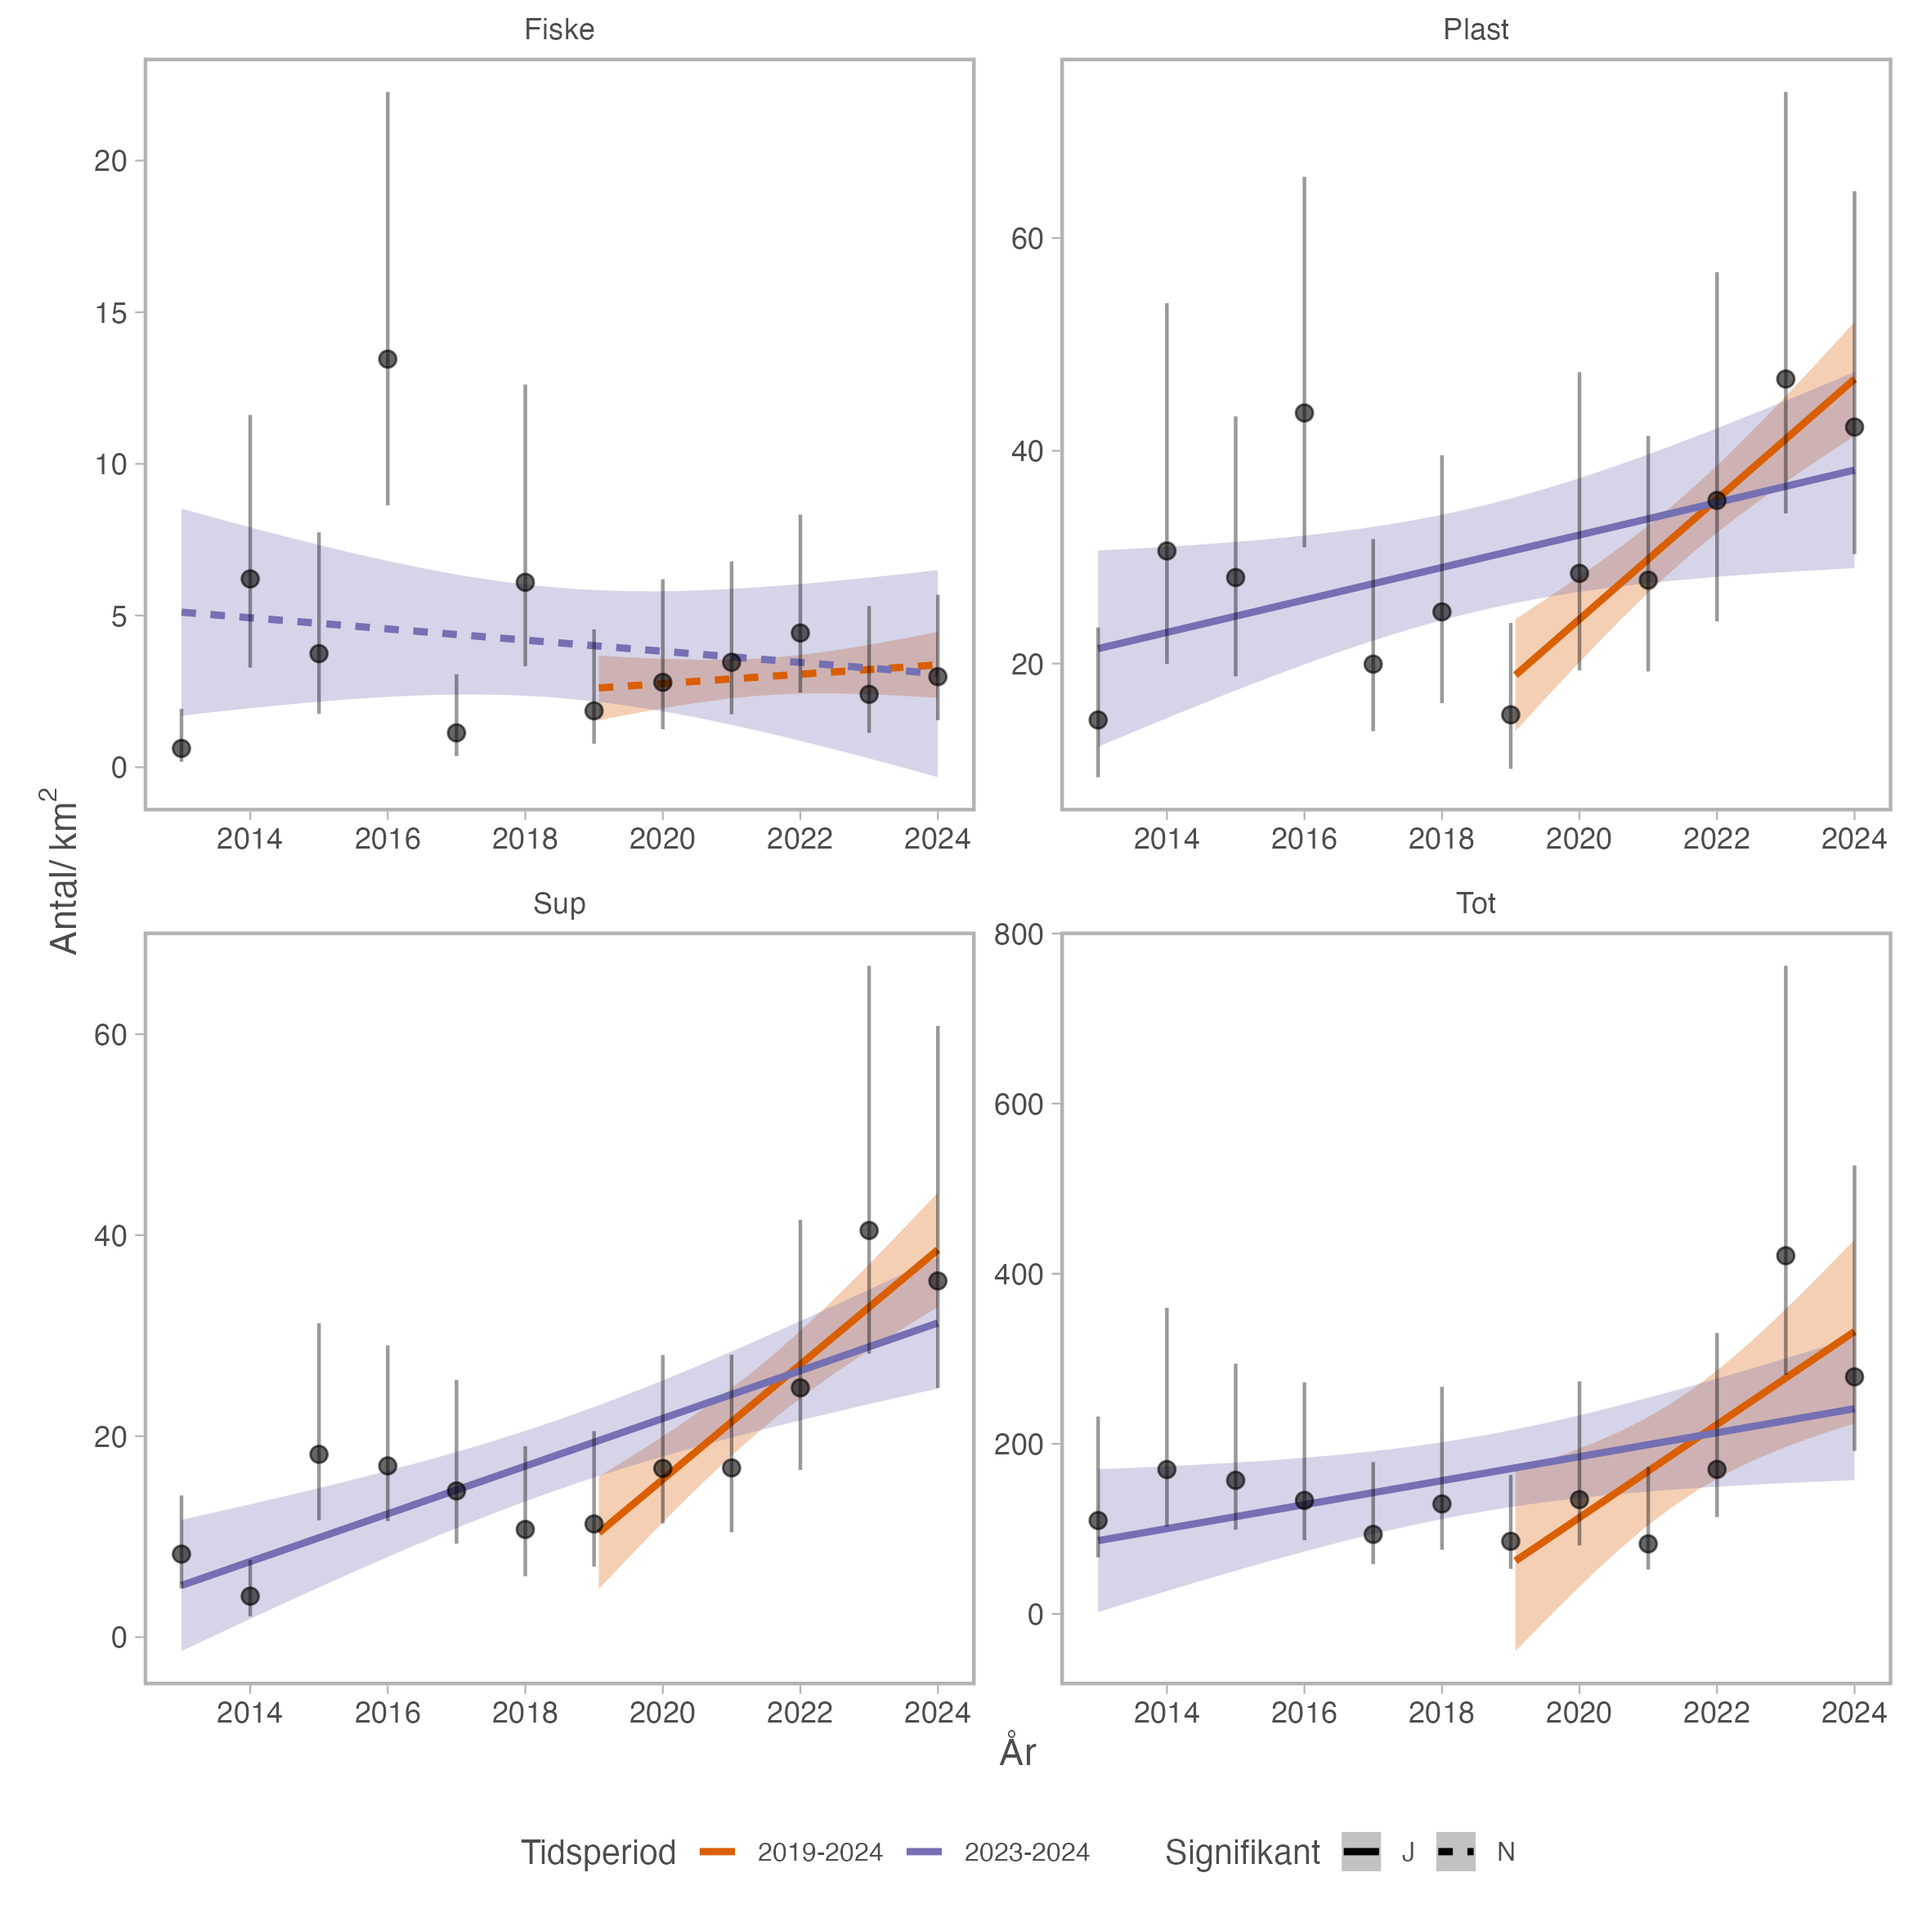
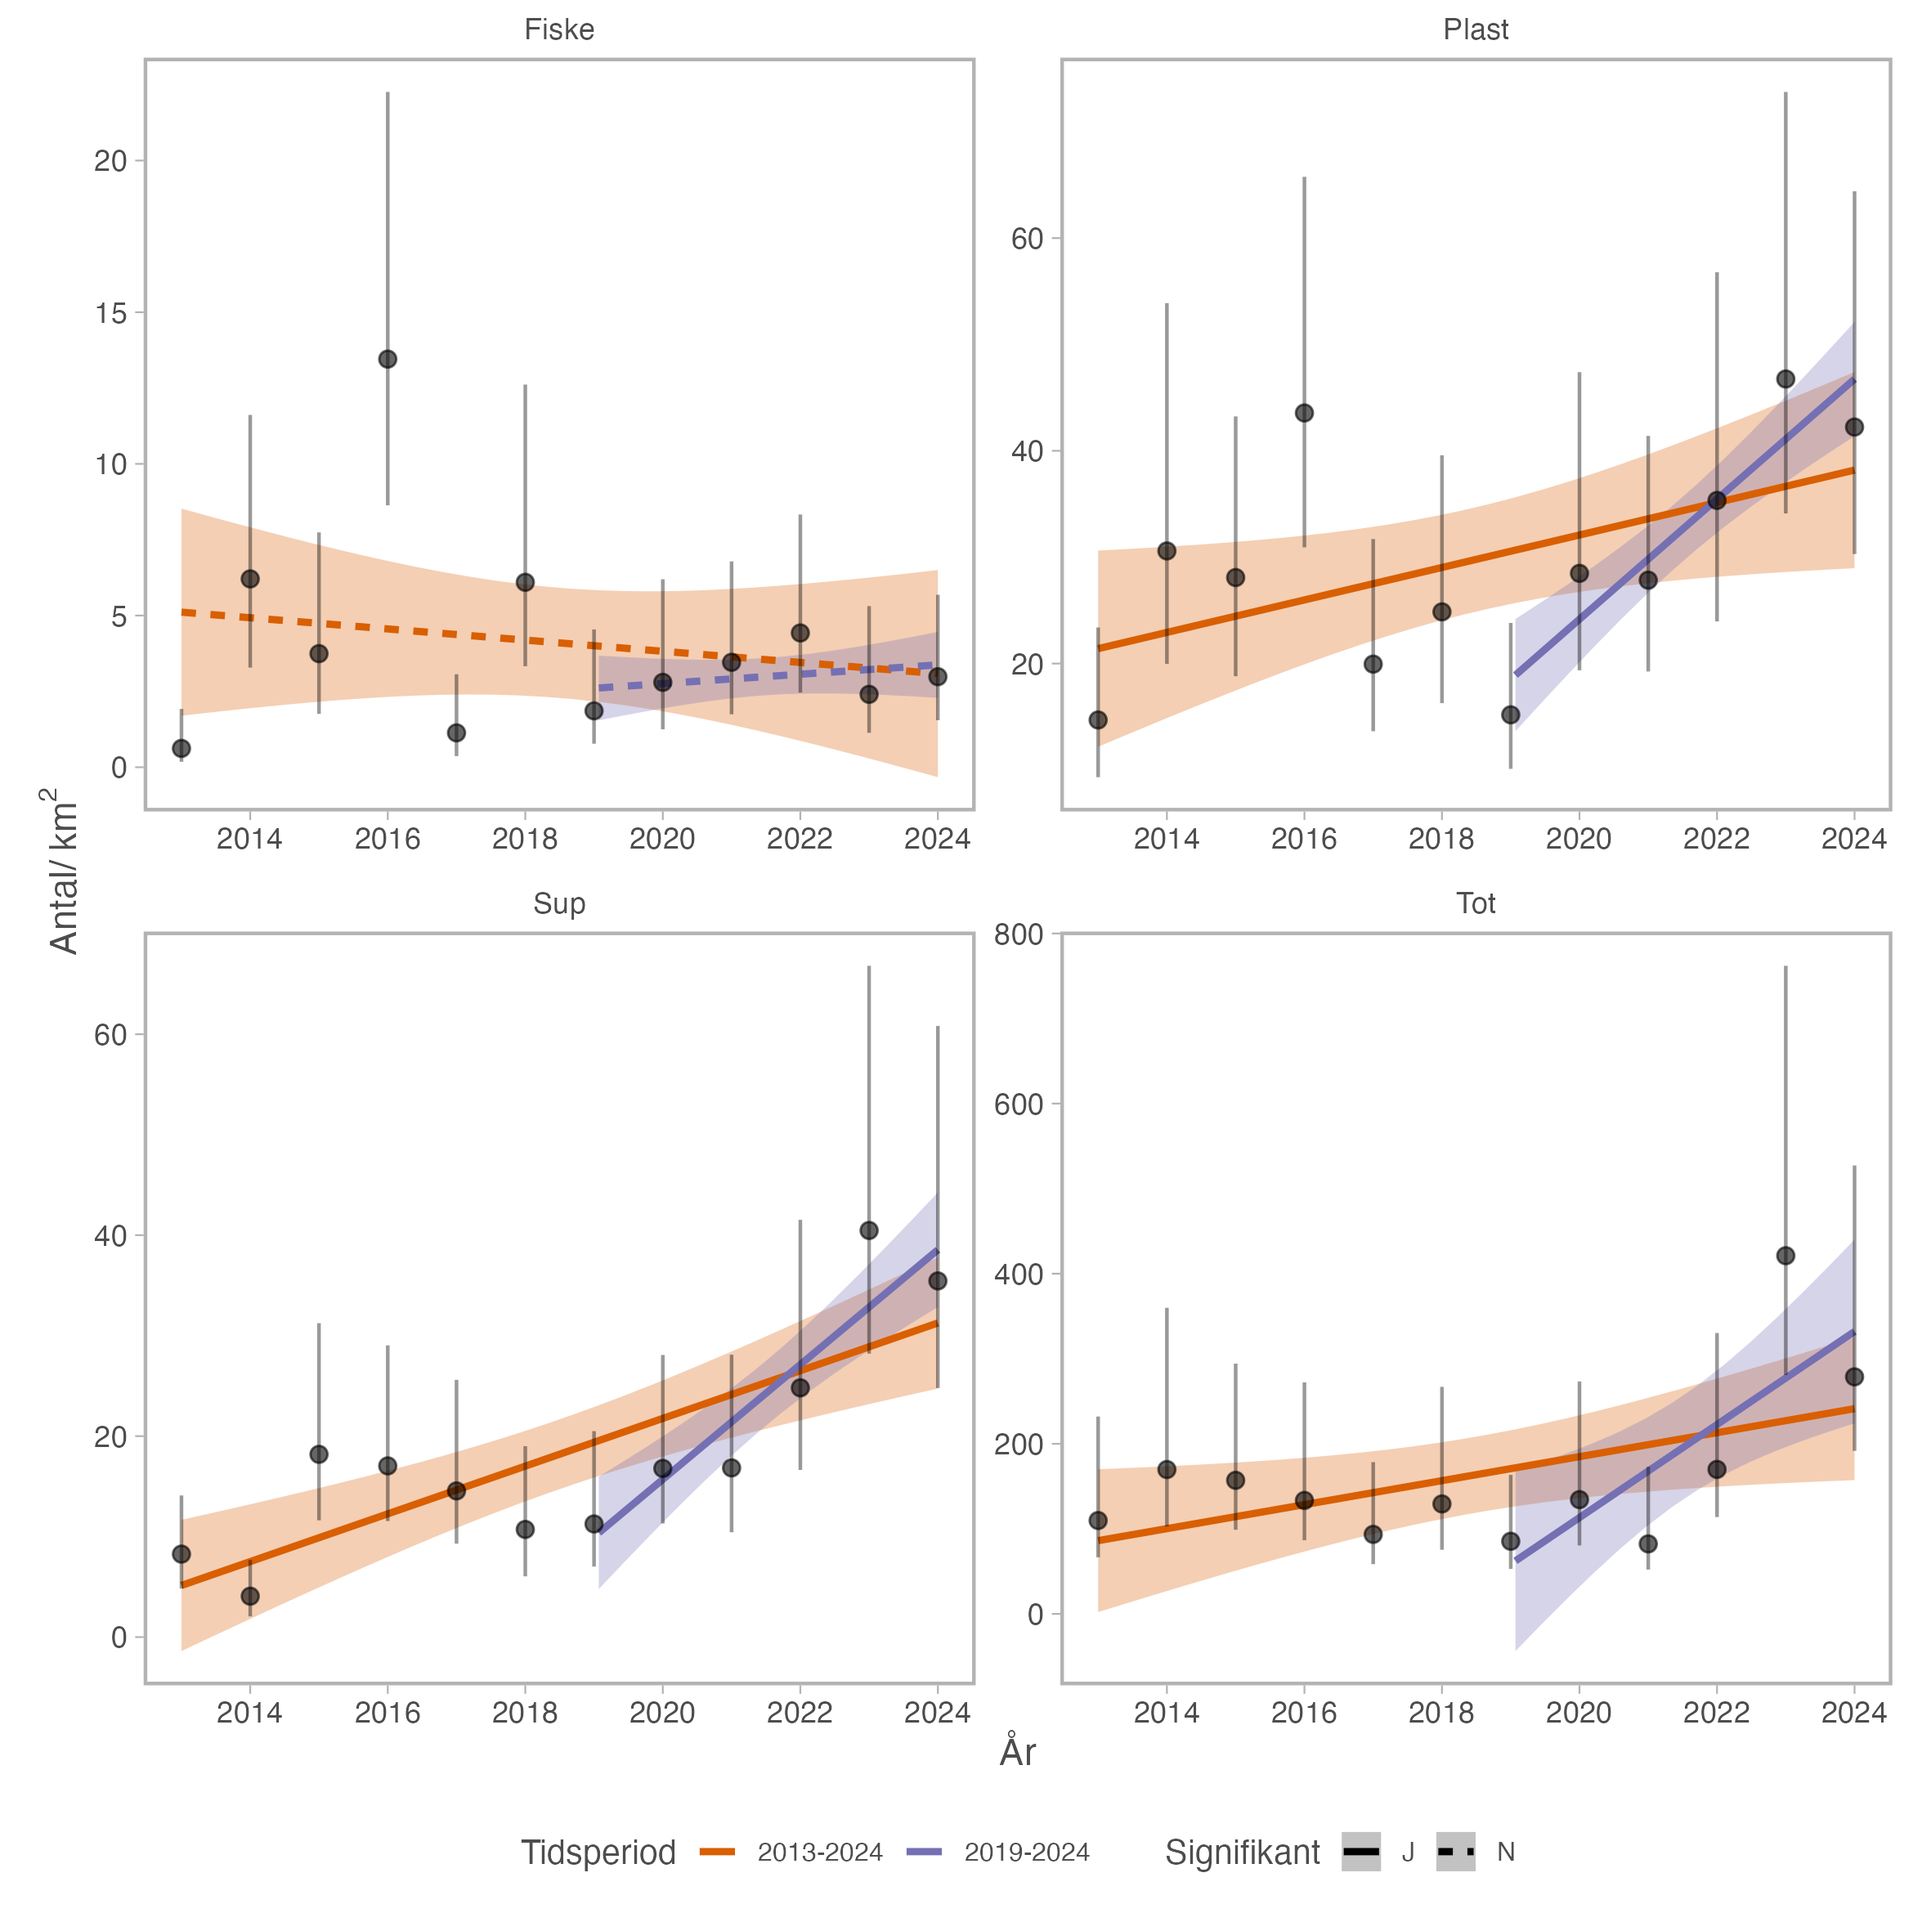
Fix figure legend typo

diff --git a/R/04-plot-models.html b/R/04-plot-models.html
@@ -351,7 +351,7 @@ display: none;
 
 <h1 class="title toc-ignore">Plot models</h1>
 <h4 class="author">Max Lindmark</h4>
-<h4 class="date">24 March, 2025</h4>
+<h4 class="date">31 March, 2025</h4>
 
 </div>
 
@@ -592,7 +592,7 @@ for(i in unique(sims$id)){
   p &lt;- predict(m, newdata = nd, se_fit = TRUE) |&gt; 
     mutate(upr = est + 1.96*est_se,
            lwr = est - 1.96*est_se,
-           tp = &quot;2023-2024&quot;,
+           tp = &quot;2013-2024&quot;,
            sig = ifelse((tidy(m)$conf.low[2] &gt; 0 &amp; tidy(m)$conf.high[2] &gt; 0) | (tidy(m)$conf.low[2] &lt; 0 &amp; tidy(m)$conf.high[2] &lt; 0),
                         &quot;J&quot;, &quot;N&quot;))
   
